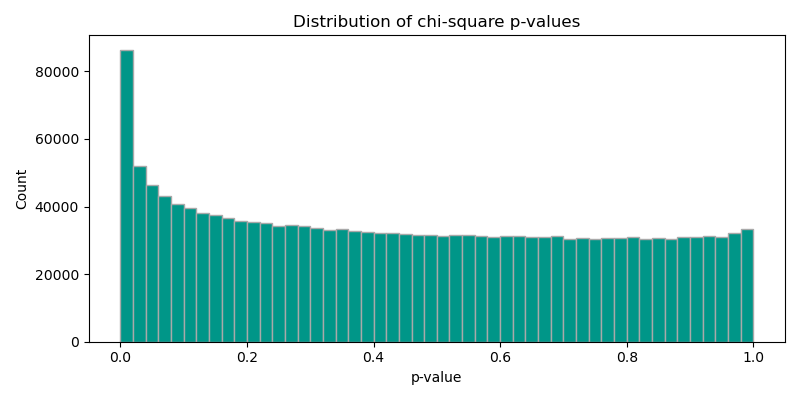
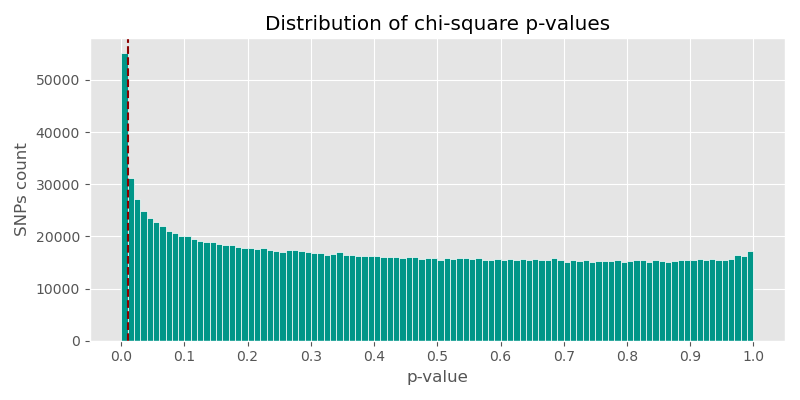
plots for web

diff --git a/docs/06_SNPs_stats/chi_square.html b/docs/06_SNPs_stats/chi_square.html
@@ -28,14 +28,9 @@
 </head>
 <body>   
 
-    <h3>Null variance estimates per sample</h3>
-    <img src="nv_per_sample.png">
-
-    <h3>Replicate differences across AFs</h3>
-    <img src="avg_zdiff_per_bin.png" >
-
-    <h3>SNPs counts per AF bin</h3>
-    <img src="snp_counts_per_bin.png">
-
+    <h3>P-values form chi square test (less than 0.01 will be discarded)</h3>
+    <img src="pval_histogram.png">
+    <h3>-log10(p-values) vs total SNP depth </h3>
+    <img src="pval_vs_depth.png">
 </body>
 </html>
